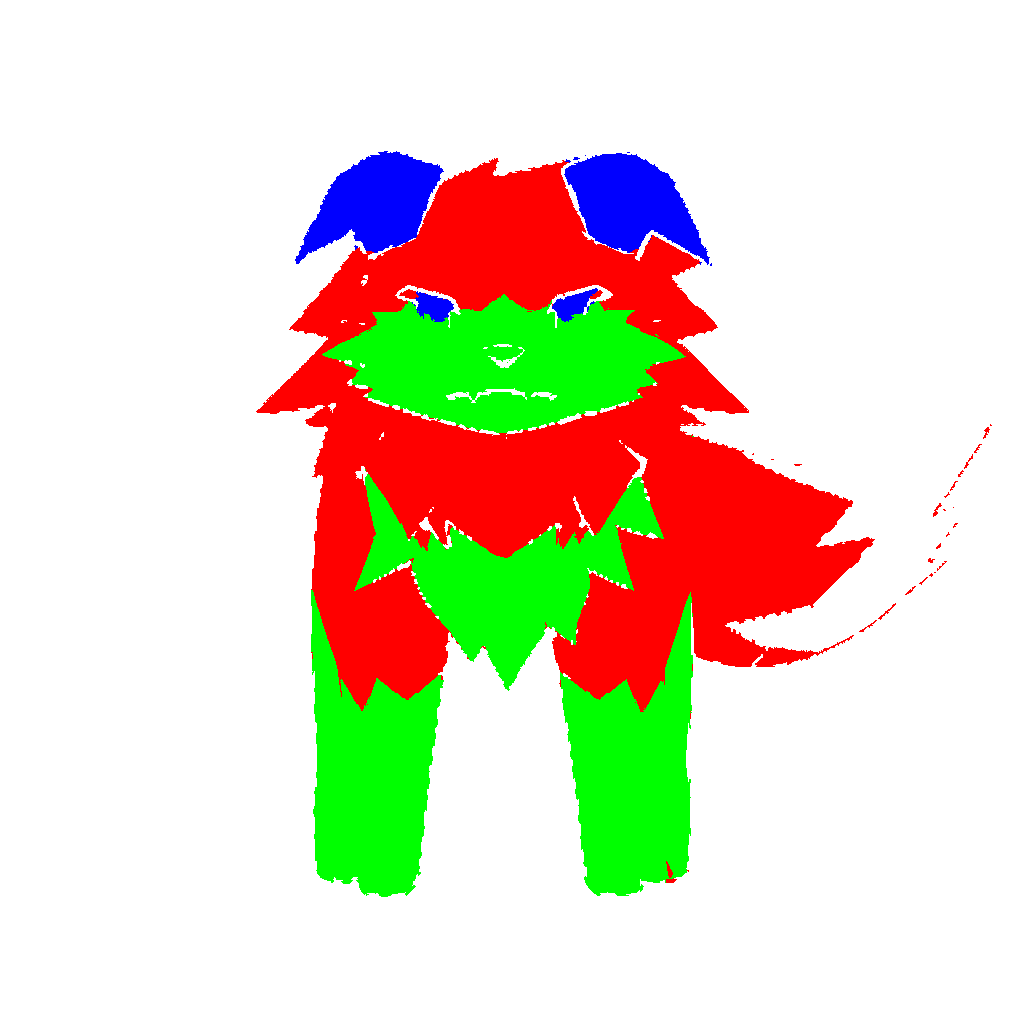
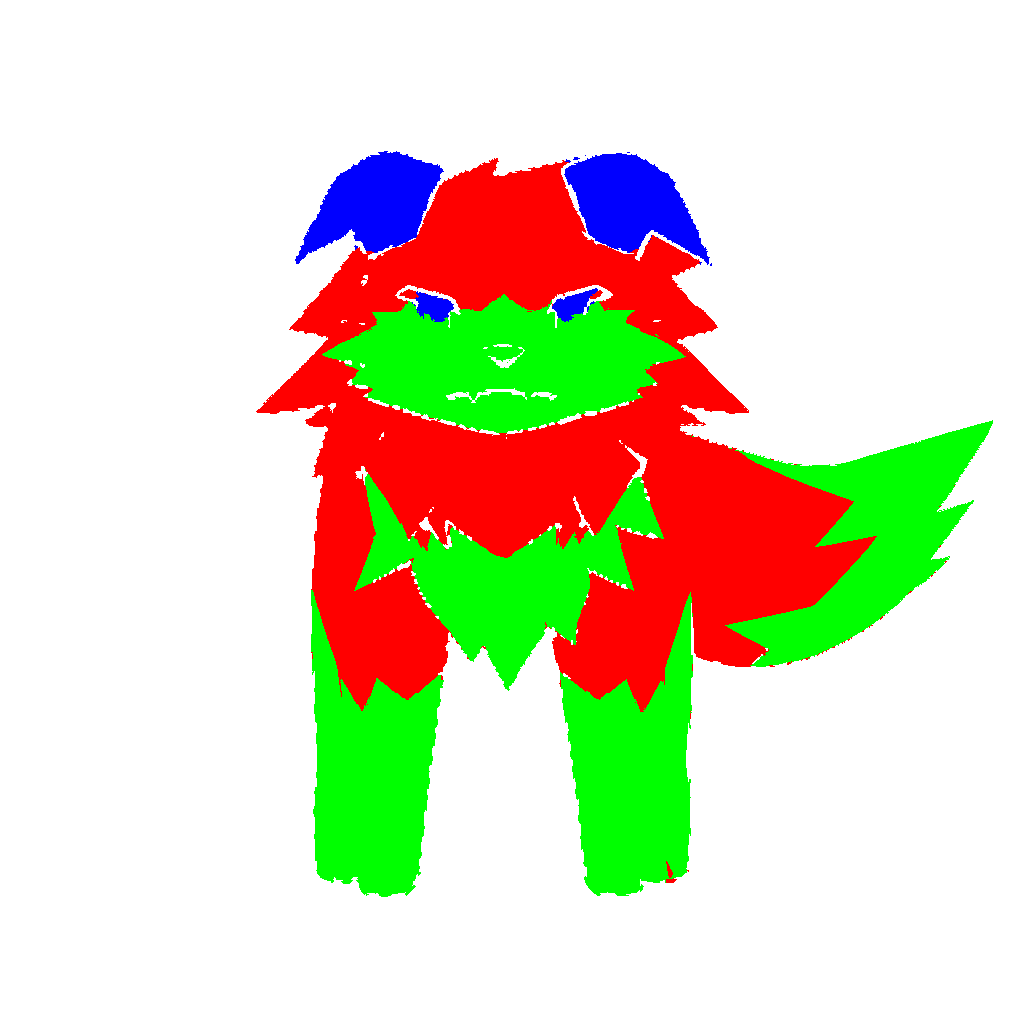
染色マスクの見直し: タイガーの尾の先の白い毛も②で染まるようにした
2026-10-27 社長の決定(尾の先の白い毛は白い毛②に入れる)。尾の白は体の白とつながっていないので、
尾のまわりで彩度0.28未満を②にした。尾のまわりの外は1画素も変わっていない。保存キー・色のidは触っていない。

Claude-Session: https://claude.ai/code/session_01FMnScf6fx7a1Bakahouj7w

Changed region(s): [[0.7188, 0.4062, 0.9688, 0.6562]]

diff --git a/tools/image/refine-dye-mask.js b/tools/image/refine-dye-mask.js
@@ -33,12 +33,23 @@ const TOOLS_DIR = path.join(__dirname, '..');
 const DEFAULTS = { near: 22, far: 90, darkV: 60, snap: 0.6, snapDist: 6, speck: 60, thin: 1.6, lineFix: true };
 // 子ごとの設定。書いていない値は DEFAULTS
 const CONFIGS = {
+  // 石の面ごとのかたまりを多数決で1つの部位にそろえる(縦横の直線をやめて、石の切れ目で分ける。2026-10-27 社長)
+  // 肩の石は腕②(社長)。肩の上の面は胸と同じ色で続いているので、肩の上の明るい稜線((345,215)→(290,335)・右は
+  // (708,215)→(770,335))と、その先の切れ込み・肩の下のふちの線を角にした多角形で分ける。稜線の先から切れ込みまで
+  // (左 (290,335)→(291,361)・右 (770,335)→(765,357))の約30pxだけは、絵に線が無い
+  Golem: { near: 14, far: 60, snap: 0.01, snapDist: Infinity, post: [
+    { from: 0, to: 1, poly: [[349, 212], [236, 222], [156, 330], [184, 359], [281, 394], [291, 361], [290, 335]] },
+    { from: 0, to: 1, poly: [[706, 212], [832, 214], [912, 330], [882, 352], [788, 394], [765, 357], [770, 335]] },
+  ] },
   // 白い毛は②、紫の毛は①。あご下・胸の陰になった白い毛と、右後ろ足(四角い範囲の外で縦に切れていた)が①に入っていた。
   // 白い毛は陰でも彩度が低い(0.28未満)か青緑寄り、紫の毛は色相240前後で彩度0.5前後なので、色で分ける。尾の先の白(染めない)は触らない
   Tiger: { far: 250, snap: 0.01, snapDist: Infinity, pre: [
     { from: 0, to: 1, sat: [0, 0.28], poly: [[0, 300], [700, 300], [700, 1024], [0, 1024]] },
     // あご下の陰は青緑(色相150〜228)に寄っていて彩度も少し高い。紫の毛は色相240前後
     { from: 0, to: 1, sat: [0, 0.45], hue: [150, 228], poly: [[0, 300], [700, 300], [700, 1024], [0, 1024]] },
+    // 尾の先の白い毛も②(2026-10-27 社長が決めた)。尾の白は体の白とつながっていないので、尾のまわり(x 700 より右。
+    // 脚の白は x 690 まで、尾の白は x 735 から)で、彩度0.28未満を②にする。紫の毛(彩度0.5前後)は動かない
+    { from: [-1, 0], to: 1, sat: [0, 0.28], poly: [[700, 400], [1024, 400], [1024, 720], [700, 720]] },
   ] },
   // 黒目は②。明るい下半分と右のふちが体①に入っていた。黒目②から、色が続くかぎり体①へ広げる(黒目のまわりの黒い線で止まる)。
   // 最初は円で指示していて、円を y=405 で切った所に黒目の上のふちが体のまま残っていた(2026-10-27 部長の指摘で作り直し)
@@ -347,7 +358,16 @@ const refine = (srcData, Lin, W, H, cfg) => {
       specks++;
     }
   }
-  // ⑤ 子ごとの手直し
+  // ⑤ 子ごとの手直し。post … 仕上げたあとで、多角形の中のある部位を別の部位へ(角は絵の線の上に置く。
+  // 同じ色の面が続いていて、多数決では分けられない所だけに使う)
+  for (const pr of cfg.post || []) {
+    for (let i = 0; i < N; i++) {
+      if (!opaque(i)) continue;
+      const x = i % W, y = (i - x) / W;
+      if (pr.from !== undefined && !(Array.isArray(pr.from) ? pr.from : [pr.from]).includes(L[i])) continue;
+      if (inPoly(x + 0.5, y + 0.5, pr.poly)) L[i] = pr.to;
+    }
+  }
   const inBox = (i, b) => { const x = (i % W + 0.5) / W, y = (Math.floor(i / W) + 0.5) / H; return x >= b[0] && x < b[2] && y >= b[1] && y < b[3]; };
   for (const b of cfg.keep || []) for (let i = 0; i < N; i++) if (inBox(i, b)) L[i] = L0[i];
   for (const s of cfg.set || []) for (let i = 0; i < N; i++) if (opaque(i) && inBox(i, s.box) && (s.from === undefined || L[i] === s.from)) L[i] = s.to;

diff --git a/monster-hero/index.html b/monster-hero/index.html
@@ -102,7 +102,7 @@ var GAME_BUILD = '650ea992b8df';
 window.__mhGameBuild = GAME_BUILD;
 // 画面に出す版の日時(BUILD_DATE)。本体の中に書くと、ビルドのたびに本体の中身(と GAME_BUILD)が変わり、
 // 事前ダウンロードにためた本体が使えなくなるので、ここから渡す。tools/stamp-version.js が version.json と同じ値を打つ
-window.__mhBuildDate = '2026-10-27 04:37';
+window.__mhBuildDate = '2026-10-27 04:39';
 // 起動でいちばん大きいのは本体JS(約2.7MB)。いちばん後ろで読むため、そこへ来ると
 // ゲージが止まって見えていた。先に取りはじめて、受け取ったバイト数をそのまま出す。
 // ここで取ったものはブラウザのキャッシュに載るので、下の <script> は取り直さない
@@ -2245,7 +2245,7 @@ window.__mhBoot.prefetch('game-system.compiled.js', 'game-system.compiled.js?v='
 <body>
 <div id="loading"><div class="static-mocchi"><img id="static-mocchi-image" alt="モッチー"><span></span></div><section class="static-copy"><h1>NOW LOADING</h1><h2>冒険の準備をしています</h2><div class="static-progress"><span></span></div><strong>0%</strong><p>ゲームシステムを起動中</p></section></div>
 <div id="root"></div>
-<script src="data/images/images-ally.js?v=4f77d68cf17a" onload="__mhBoot.done('data/images/images-ally.js','モンスターの絵を読み込み中')" onerror="__mhBoot.fail('data/images/images-ally.js')"></script>
+<script src="data/images/images-ally.js?v=fffc0b9f61e5" onload="__mhBoot.done('data/images/images-ally.js','モンスターの絵を読み込み中')" onerror="__mhBoot.fail('data/images/images-ally.js')"></script>
 <script>try{document.getElementById('static-mocchi-image').src=MOCCHI_IMG}catch(e){}</script>
 <script src="data/images/images-enemy.js?v=f10f6ad82110" onload="__mhBoot.done('data/images/images-enemy.js','敵モンスターの絵を読み込み中')" onerror="__mhBoot.fail('data/images/images-enemy.js')"></script>
 <script src="data/ally-monsters.js?v=51d6430d98dd" onload="__mhBoot.done('data/ally-monsters.js','モンスターデータを読み込み中')" onerror="__mhBoot.fail('data/ally-monsters.js')"></script>

diff --git a/monster-hero/data/images/images-ally.js b/monster-hero/data/images/images-ally.js
@@ -21,7 +21,7 @@ const HAM_IMG = "images/monsters/ham.png?v=106321d09a72";
 const TIGER_ROLLBACK_IMG = "images/monsters/tiger.png?v=38f7f50cd68b";
 const TIGER_ROLLBACK_ICON = "images/monster-icons/tiger.png?v=4519062c1312";
 const TIGER_IMG = "images/monsters/tiger.PNG?v=774d21917ef1";
-const TIGER_DYE_MASK = "images/monsters/tiger-dye-mask.PNG?v=e6c4b23ee988";
+const TIGER_DYE_MASK = "images/monsters/tiger-dye-mask.PNG?v=ac56746b5791";
 const PIXIE_IMG = "images/monsters/pixie.png?v=ecd7433b3190";
 const MIA_IMG = "images/monsters/mia.PNG?v=a2b1a26f451c";
 // ミーアの待機アニメ(翼の羽ばたき)用の切り抜きマスク。本体画像と同じ比率(2:3)で、白い所が見える所。

diff --git a/docs/progress/dye-mask-review/README.md b/docs/progress/dye-mask-review/README.md
@@ -20,7 +20,7 @@
 | 1 | ウンディーネ `Undine` | 大 | 手(水色のひれ)の先とひじのまわりが髪の部位。髪の筋と肌の境目が線から2〜4画素ずれ(埋め込み部位マップが256px) | **直した**(`undine.png`) |
 | 2 | ヤオビクニ `Yaobikuni` | 大 | 肌と髪・桃色の後ろ髪の境目が大きくずれる。頬に四角い切れ目。左右の腕で部位が食い違う(左は肌色まで①、右は上半分だけ③) | **直した**(`yaobikuni.png`)。腕は「肌色→肌③・緑のひれ→①」にそろえた |
 | 3 | パンドラ `Pandora` | 大 | 髪の左右の境目が絵より6画素ほど右(肌色の髪に紫が入る)。スカートの折り目の線が塗り残しで、濃い色で白い筋 | **直した**(`pandora.png`)。髪の左右の境目が絵の線に乗った・スカートの折り目の白い筋が消えた |
-| 4 | タイガー `Tiger` | 大 | あご下・胸の陰になった白い毛が体の部位。右後ろ足が縦一直線で切れる。尾の先の白は染まらない(四角い範囲の外) | **直した**(`tiger.png`)。白い毛を色で②へ。尾の先の白は今までどおり染めない(分け方の話なので部長に案) |
+| 4 | タイガー `Tiger` | 大 | あご下・胸の陰になった白い毛が体の部位。右後ろ足が縦一直線で切れる。尾の先の白は染まらない(四角い範囲の外) | **直した**(`tiger.png`)。白い毛を色で②へ。尾の先の白は 2026-10-27 社長の決定で②へ入れた(`tiger-tail.png`。尾のまわりの外は1画素も変わっていない) |
 | 5 | エイキ `Eiki` | 大 | 白い鎧のふちに塗り残しの白い筋。足元の花びらに桃色の点が多数。顔まわりの境目が線の2〜3画素内側。房飾りが1本の中で①と③に縦に切れている・羽の内側の濃い紫が③と染めないのまだら | 区分けを部長に質問中(`eiki-question.jpg`) |
 | 6 | イルミネ `Illumine` | 大 | 頭のてっぺんに四角い部位の区切り(下のふちがざらざら)、濃い色で頭に横帯の色むら。フードの2色の境目に点が散る | **直した**(`illumine.png`)。頭の暗い紫を②へ(明るさ0.5以下を②からたどる)。残り: 左の髪飾りのまわり(x 300〜315・y 170〜200)に③の小さなかたまり、脚のあいだの光る筋に小さな出っぱり2つ |
 | 7 | ドリーミィ `Dreamy` | 大 | 足に四角い切れ目(形で決めた跡)。目のまわり・胸の飾りに点が散る | **直した**(`dreamy.png`)。脚を①へ(脚の色だけ①からたどる)・ボタンの目の花を⑤へ・顔の左下の雲に入った③を②へ。残り: 左脚の付け根の縫い目のまわり(x 205〜215・y 505〜545)が②のまま、胸の飾りまわりの点(4倍の3段目)は区分けが細かく直していない |
